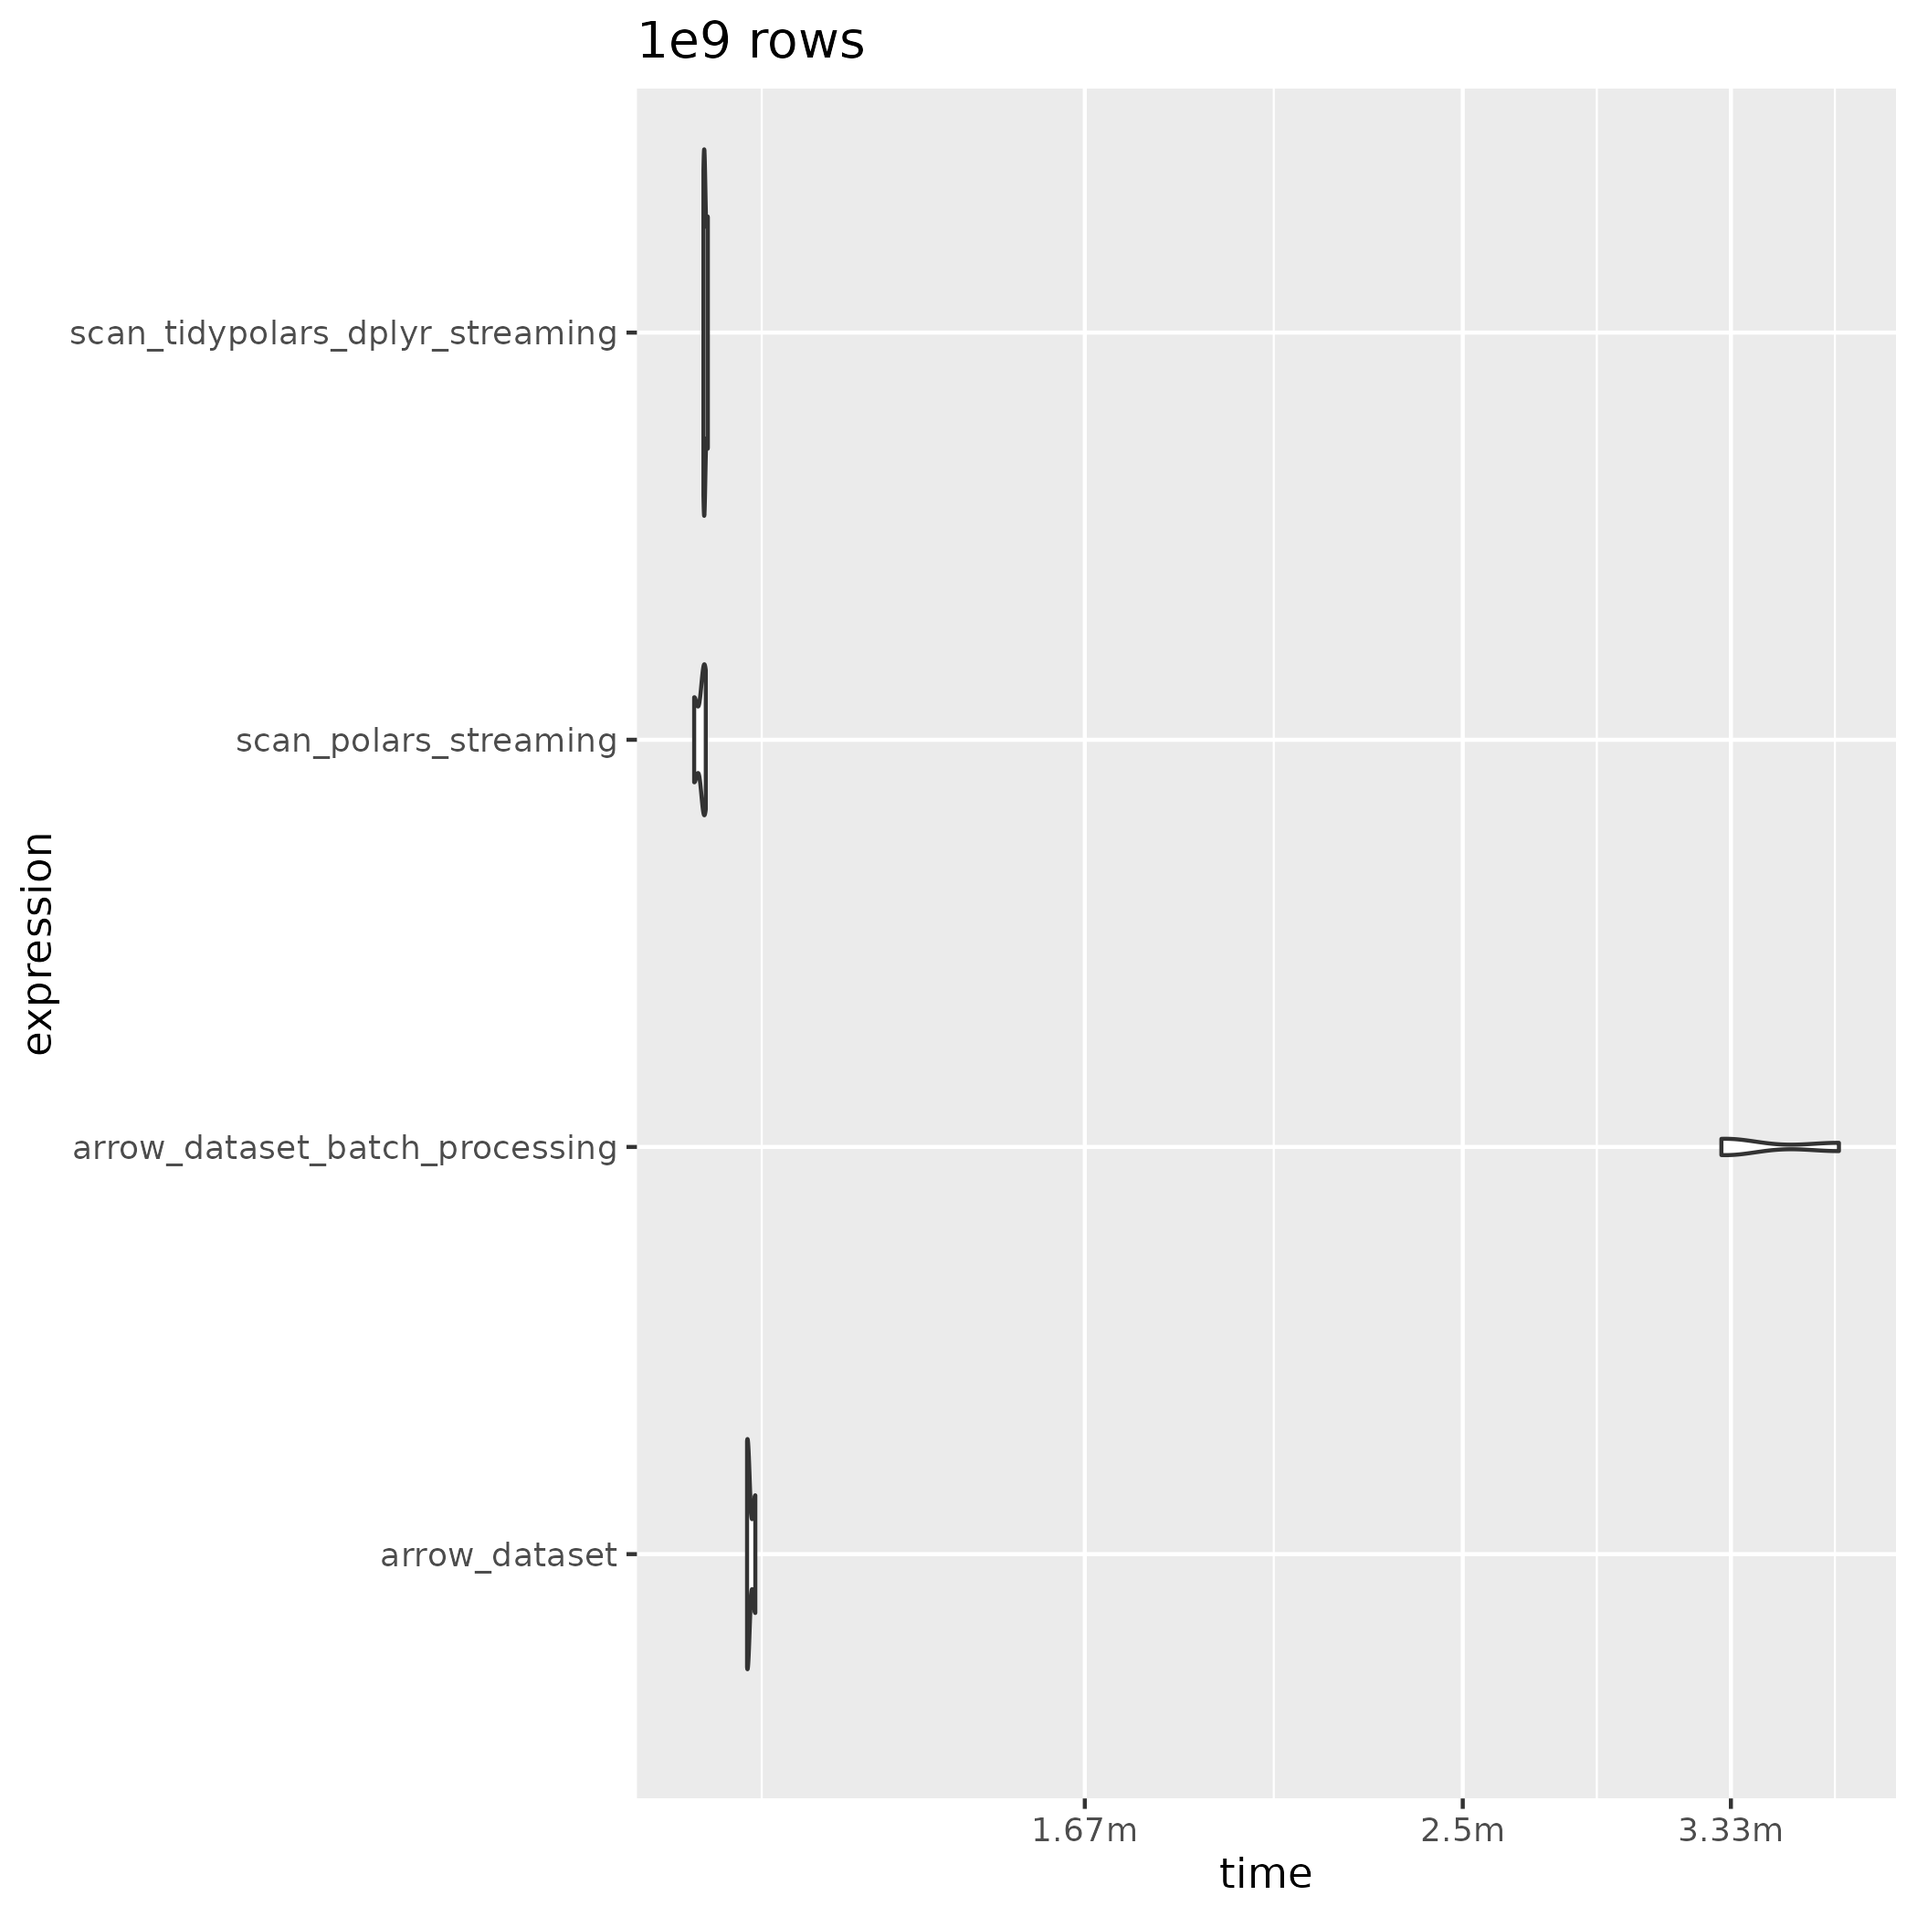
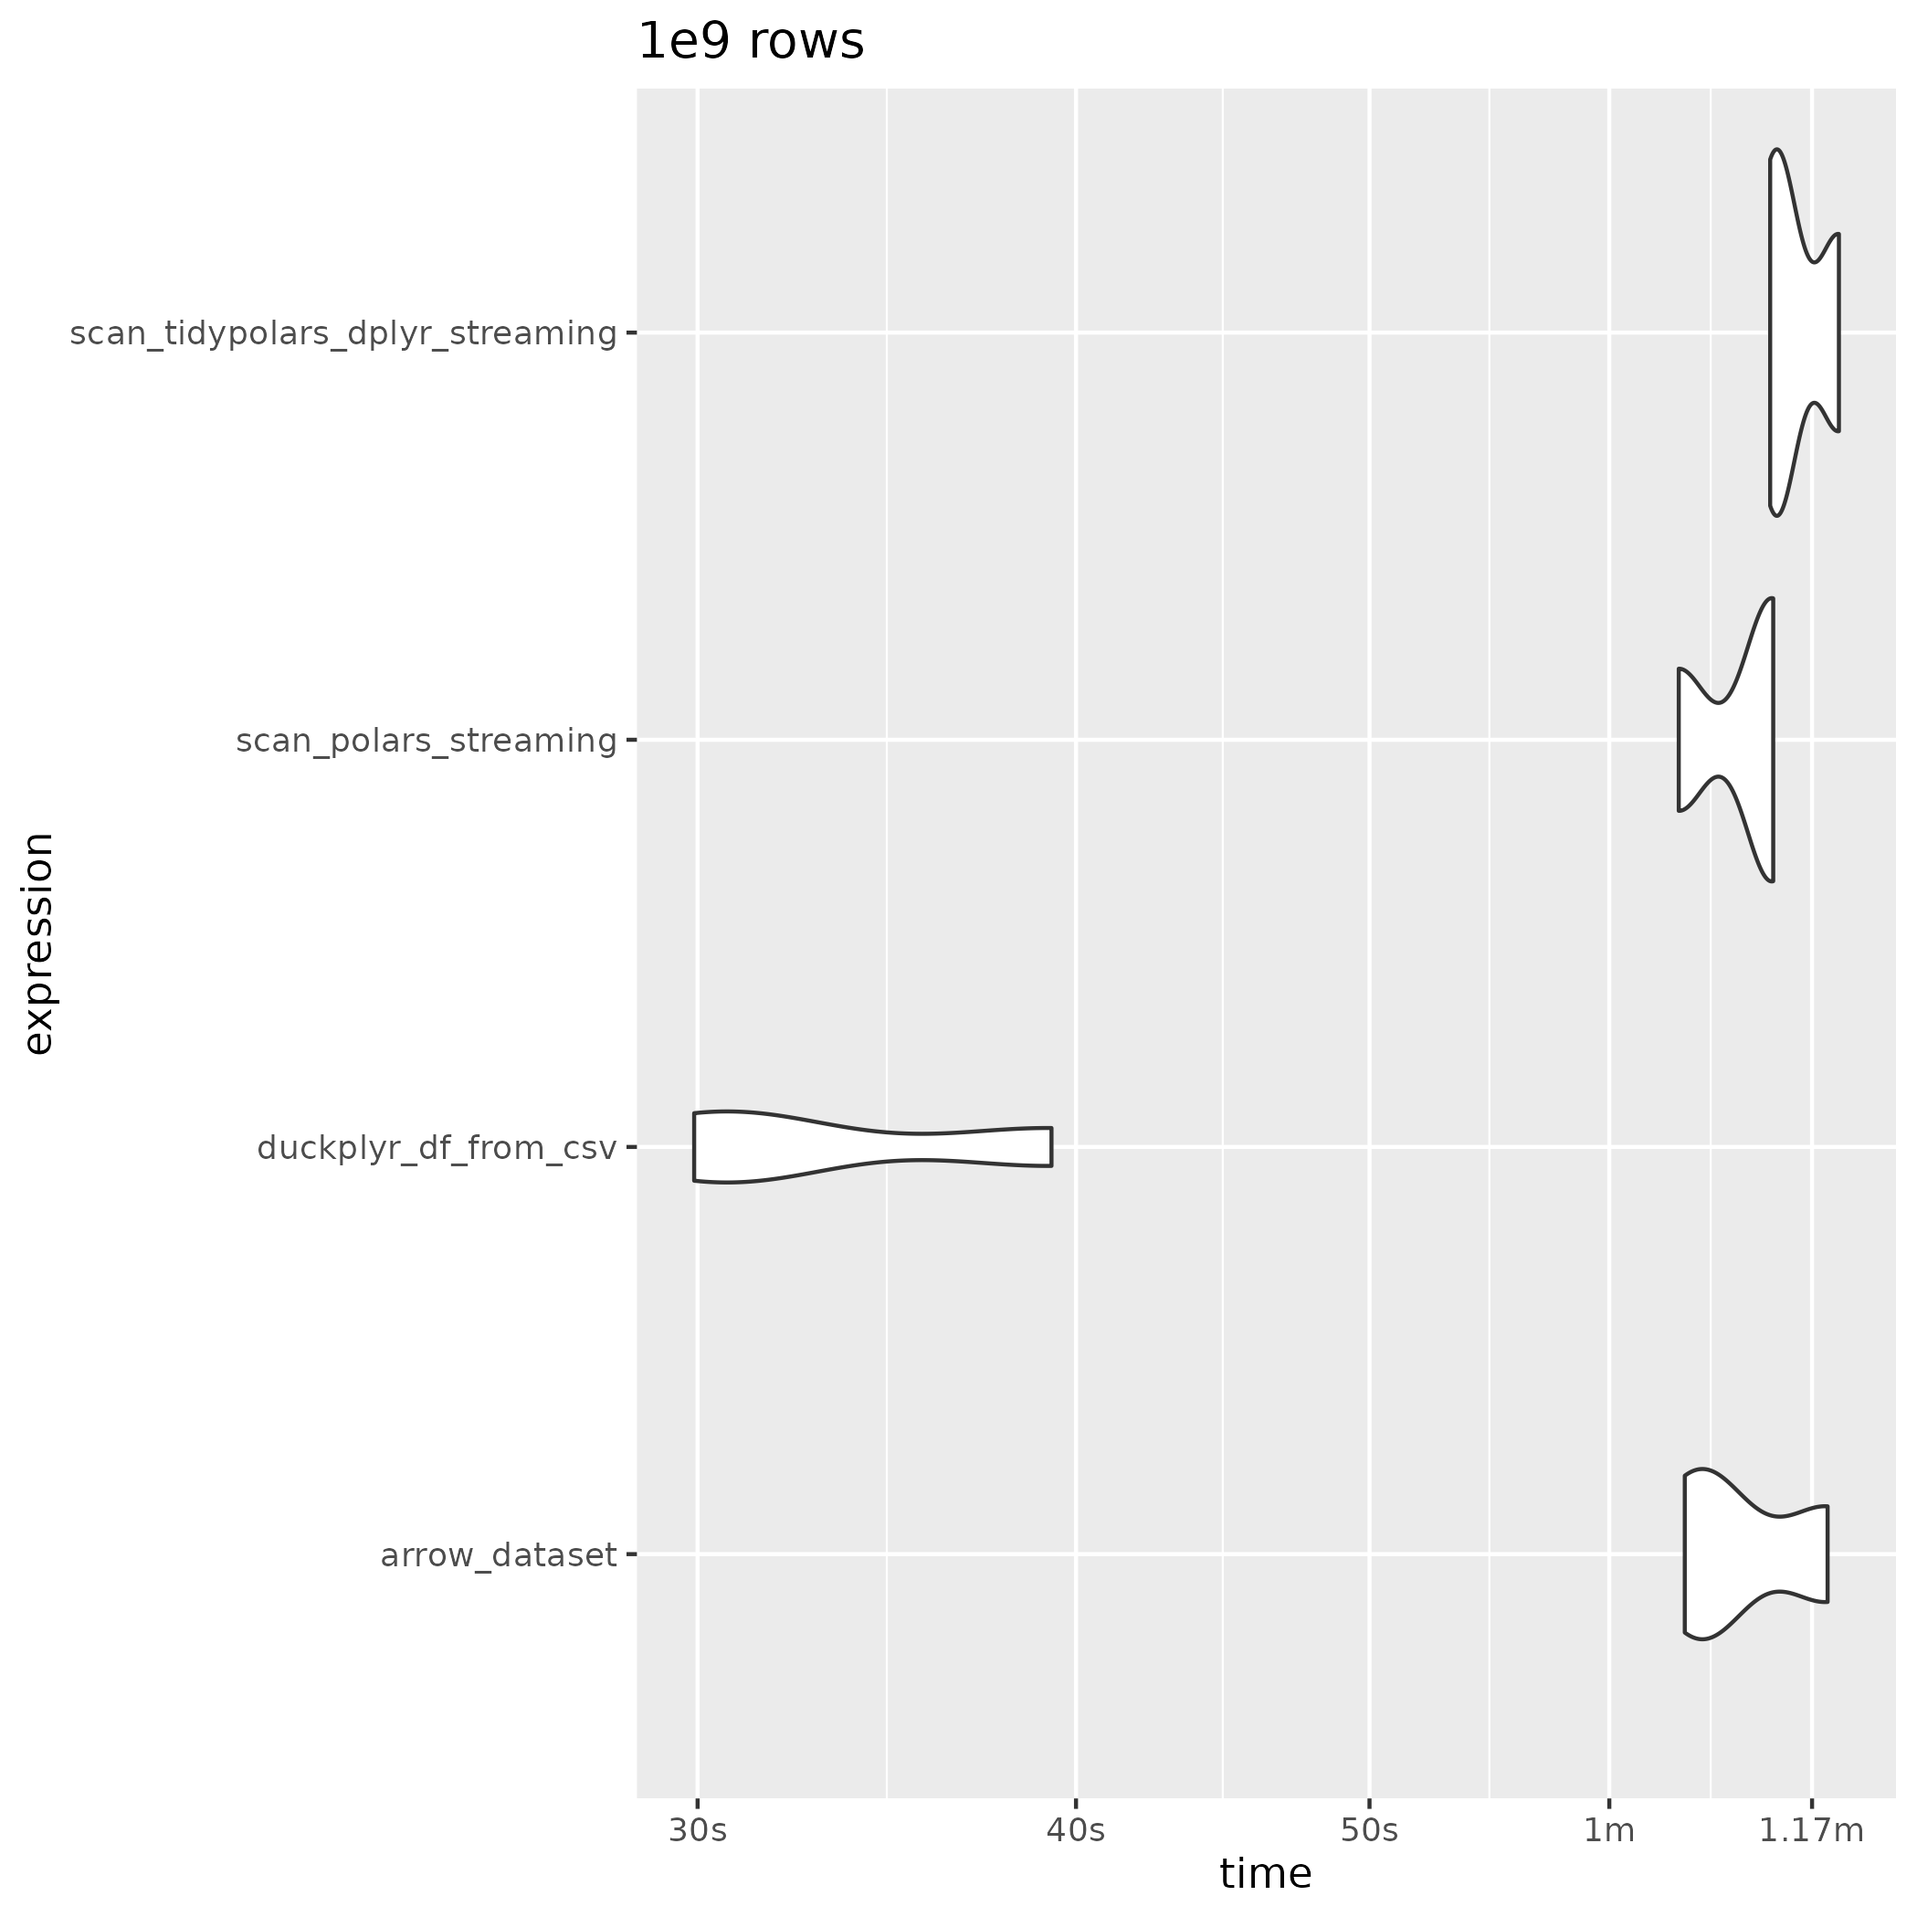
duckdb copy

diff --git a/README.md b/README.md
@@ -20,6 +20,7 @@
 
 #### 2024-05-16
 
+![](2024-05-16_1e9_rows.png)
 
 #### 2024-03-27
 
